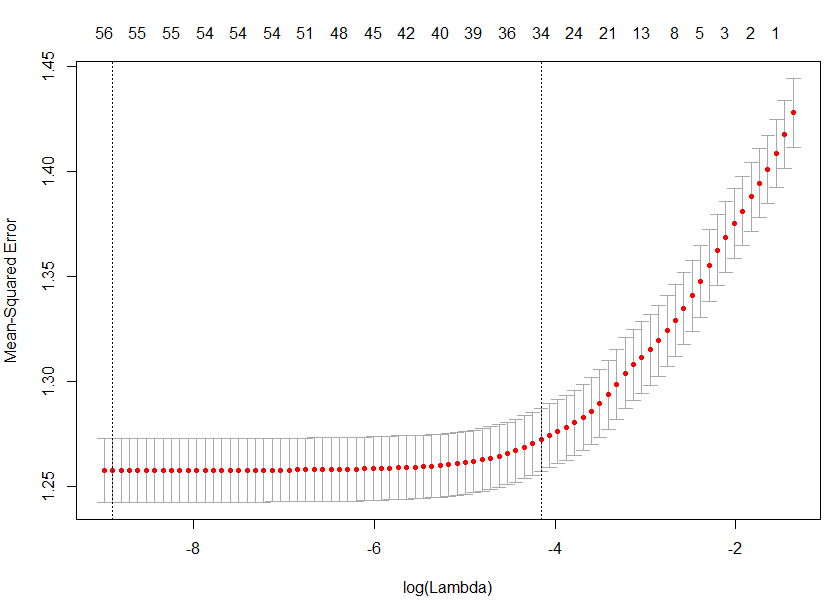
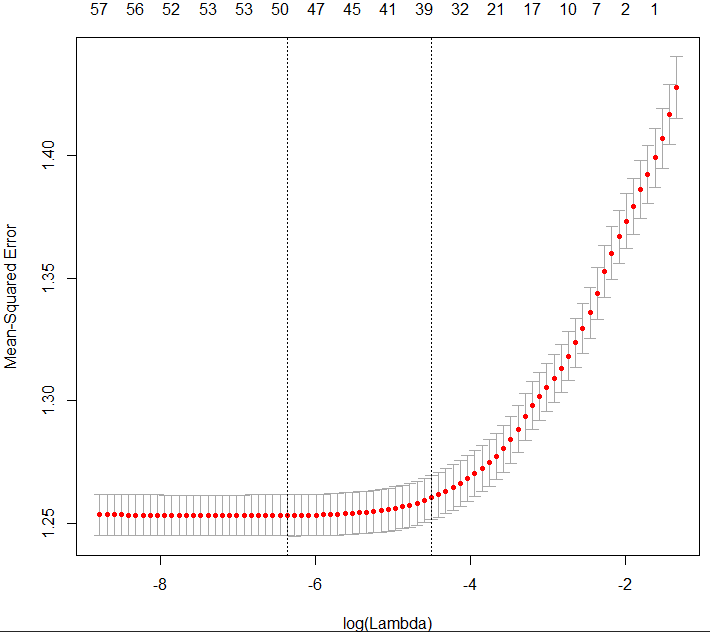
Changes from papeeria

diff --git a/thesis.tex b/thesis.tex
@@ -19,11 +19,60 @@
 \begin{document}
 
 \section{Introdution}
-As we know, people mostly get information and knowledge from news and articles. In this era, people are also used to using internet doing everything. So it’s no doubt that online news and articles are playing a very important role in our daily life. We can get any news we want through internet quickly. And also, it’s much easier to figure out which online news or articles we like through many internet ways, such like shares, likes and comments. \\ 
-As we can imagine, popular news can make the authors become famous, also it can help the social media company attract more people. So they can make more profits. So if an author can know what can make news or articles become popular, or one company can predict whether news or articles will be popular before them are published, they will definitely try their best to get the information.  \\
-So this project aims to find an method to predict how popular an online article can be before it is published by using several statistic characteristics summarized from it. We use the dataset from UCI Machine Learning Repository. In this dataset, it uses the number of shares for an online article to measure how popular it is.   
+As we know, people mostly get information and knowledge from news and articles. In this era, people are also used to using internet doing everything. So it’s no doubt that online news and articles are playing a very important role in our daily life. We can get any news we want through internet quickly. And also, it’s much easier to figure out which online news or articles we like through many internet ways, such like shares, likes and comments. 
 
-The input of algorithm is several features of Mashable articles: Words(e.g. number of words in the title), Links(e.g. number of Mashable article links), Digital Media(e.g. number of images), Time(e.g. day of the week), Keywords(e.g. number of keywords) and Natural Language Processing(e.g. closeness to top 5 LDA topics). We will predict the popularity in two perspectives. Firstly, we can use regression models(e.g. regression, GAM, Lasso) to predict the number of shares. Secondly, we make articles into 3 levels (unpopular, normal, popular) and then use classification algorithm(e.g. SVM, Random Forest, KNN) to find the articles level.  
+As we can imagine, popular news can make the authors become famous, also it can help the social media company attract more people. So they can make more profits. So if an author can know what can make news or articles become popular, or one company can predict whether news or articles will be popular before them are published, they will definitely try their best to get the information. 
+
+So this project aims to find an method to predict how popular an online article can be before it is published by using several statistic characteristics summarized from it. We use the dataset from UCI Machine Learning Repository. In this dataset, it uses the number of shares for an online article to measure how popular it is. It contains 39644 observations with 60 variables, including 2 variables that are not used in orginal work for the dataset, but we will also one of them to build the model. So we will use 59 variables.
+
+The input of algorithm is several features of Mashable articles: Words(e.g. number of words in the title), Links(e.g. number of Mashable article links), Digital Media(e.g. number of images), Time(e.g. day of the week), Keywords(e.g. number of keywords) and Natural Language Processing(e.g. closeness to top 5 LDA topics).
+
+    \begin{table}[h]
+        \centering
+        \caption{List of variables}
+        \begin{tabular}{ l | r }
+            \hline\hline
+            Variable names & Type(\#)\\
+            \hline
+            Days between the article publication and the dataset acquisition & numeric(1) \\
+            Number of words in the title & numeric(1) \\
+            Number of words in the content & numeric(1) \\
+            Rate of unique words in the content & numeric(1) \\
+            Rate of non-stop words in the content & numeric(1) \\
+            Rate of unique non-stop words in the content & numeric(1) \\
+            Number of links & numeric(1) \\
+            Number of links to other articles published by Mashable & numeric(1) \\
+            Number of images & numeric(1) \\
+            Number of videos & numeric(1) \\
+            Average length of the words in the content & numeric(1) \\
+            Number of keywords in the metadata & numeric(1) \\
+            Number of words in the title & numeric(1) \\
+            Data channel (Lifestyle, Entertainment, Business, Social Media, Tech or World) & binary(6) \\
+            Worst keyword shares (min, avg, max) & numeric(3) \\
+            Best keyword shares (min, avg, max) & numeric(3) \\
+            Average keyword shares (min, avg, max) & numeric(3) \\
+            shares of referenced articles in Mashable (min, avg, max) & numeric(3) \\
+            Day (Monday, Tuesday, Wednesday, Thursday, Friday, Saturday or Sunday) & binary(7) \\
+            The article published on the weekend & binary(1) \\
+            Closeness to LDA topic from 0 to 4 & numeric(5) \\
+            Text subjectivity & numeric(1) \\
+            Text sentiment polarity & numeric(1) \\
+            Rate of positive words in the content & numeric(1) \\
+            Rate of negative words in the content & numeric(1) \\
+            Rate of positive words among non-neutral tokens & numeric(1) \\
+            Rate of negative words among non-neutral tokens & numeric(1) \\
+            Polarity of positive words (min, avg, max) & numeric(3) \\
+            Polarity of negative words (min, avg, max) & numeric(3) \\
+            Title subjectivity & numeric(1) \\
+            Title polarity & numeric(1) \\
+            Absolute subjectivity level & numeric(1) \\
+            Absolute polarity level & numeric(1) \\
+            \hline\hline
+        \end{tabular}
+        \label{table:1}
+    \end{table}
+
+We will predict the popularity in two perspectives. Firstly, we can use regression models(e.g. regression, GAM, Lasso) to predict the number of shares. Secondly, we make articles into 3 levels (unpopular, normal, popular) and then use classification algorithm(e.g. SVM, Random Forest, KNN) to find the articles level.  
 
 \section{Method}
 \subsection{Linear models}  
@@ -31,14 +80,14 @@ Linear models has been developed in age before computer came out, but we still s
 The linear model has one of assumptions. The regression function E(Y$\mid$X) is linear or it's reasonable to approximate it into linear model. In this formula, $\beta_j$s are unknown parameters, and variables $X_j$ can be in different sources.  
 Also, there are seveal assumptions made for this model. We always assume that E(Y$\mid$X)=f(X) is a linear function of X and the error follows $\epsilon \sim \mathcal N(0, \sigma^2I)$ and $\epsilon$ uncorrelated with X and X is full rank which implies that X^T $\text{ is nonsingular and positive definite.}$
 
-\subsection{Generalized Additive Models(GAM)}  
-Linear models are good, but as the effects are often not linear in the real world, linear models often fail. We can use some more flexible statistical methods that can show nonlinear effects. We call these methods "generalized additive models". If we have an input vector $X^T=(X_1,X_2,...,X_p)$, and want to predict a output Y. The additive model has the form $$Y=\alpha+\sum_{j=1}^{p} f_j(X_j)+\epsilon$$
-Where the mean of error term $\epsilon$ is 0. As each $f_j$ is an unspecified smooth nonparametric function. The approach is using an algorithm for simultaneously estimating all functions instead of expanding each function then fitted by simple least squares. Given observation $x_i$, $y_i$, the criterion is like: $$\sum_{i=1}^{N} (y_i-\alpha-\sum_{j=1}^{p}f_j(X_{ij}))^2+\sum_{j=1}^{p} \lambda_jf_j(X_{ij})$$
-
 \subsection{Least Absolute Selection and Shrinkage Operator(lasso)}  
 Lasso is another method for estimation in linear models. It solves the problem $$\min_{\beta} \sum_{i=1}^{n} (y_i-\sum_{j=1}^{p} x_{ij}\beta_{ij})^2 \text{, subject to } \sum_{j=1}^{p} \lvert \beta_j \rvert \leq t$$
 Where t $\geq$ 0 is a parameter given by users. It controls the amount of shrinkage that is applied to the estimates. For the full least squares estimates $\hat{\beta}^0_j$, we can get $t_0=\sum_{j=1}^{p} \lvert \hat{\beta}^0_j \rvert$. $\forall t \leq t_0$ some $\beta_j$ will go to 0. We can also write as $$\hat\beta^{lasso}=\argminB_{\beta \in \mathbb{R}^p} \lVert y-X\beta\rVert^2_2+\lambda\lVert \beta \rVert_1$$
 Where $\lambda=0$ gives ordinary least squares, $\lambda\to\infty$ gives $\hat\beta^{lasso}\to0$. 
+
+\subsection{Generalized Additive Models(GAM)}  
+Linear models are good, but as the effects are often not linear in the real world, linear models often fail. We can use some more flexible statistical methods that can show nonlinear effects. We call these methods "generalized additive models". If we have an input vector $X^T=(X_1,X_2,...,X_p)$, and want to predict a output Y. The additive model has the form $$Y=\alpha+\sum_{j=1}^{p} f_j(X_j)+\epsilon$$
+Where the mean of error term $\epsilon$ is 0. As each $f_j$ is an unspecified smooth nonparametric function. The approach is using an algorithm for simultaneously estimating all functions instead of expanding each function then fitted by simple least squares. Given observation $x_i$, $y_i$, the criterion is like: $$\sum_{i=1}^{N} (y_i-\alpha-\sum_{j=1}^{p}f_j(X_{ij}))^2+\sum_{j=1}^{p} \lambda_jf_j(X_{ij})$$
 
 \subsection{Support Vector Machines(SVM)}  
 Besides the regression models, we can also classification algorithm to describe the result. Support Vector Machines are technique for constructing an optimal separating hyperplane between two classes. We can define SVM model as:$$\text{max }L(\alpha)=\sum_{i=1}^{n} \alpha_i - \frac{1}{2}\sum_{i=1}^{n}\sum_{i'=1}^{n}\alpha_i \alpha_i' y_i y_{i'} K(x_i,x_{i'})$$
@@ -77,7 +126,9 @@ For linear model: \\
         \includegraphics[width=0.7\linewidth]{linear_qq.png}
         \caption{Linear Regression Plot: QQ plot}
     \end{figure}    
+    
     From the Scale-location plot, we can see the red line is continually going up, which suggests that the assumptions of equal variance of the residuals may not be true.  \\
+    
     \begin{figure}[h]
         \centering
         \includegraphics[width=0.7\linewidth]{linear_sl.png}
@@ -85,10 +136,138 @@ For linear model: \\
     \end{figure}
     
     For all variables, I calculate the vif for each of the variable, and some of their vif value are larger than 10, which shows the collinearity is significant in these variables. And we maybe can think about remove them. \\ 
-For GAM: 
-    From the method part, we know that $f_j(x_j)$ converges from $E \left[Y-\sum_{k \neq j}f_k(x_k)\mid{x_j} \right]$. We use gam model in R to fit the whole dataset, and according to model we get, we know that the number of local scoring iterations used to compute the estimates is only 9, which shows that this method converges pretty fast.
+    
+For GAM: From the method part, we know that $f_j(x_j)$ converges from $E \left[Y-\sum_{k \neq j}f_k(x_k)\mid{x_j} \right]$. We use gam model in R to fit the whole dataset, and according to model we get, we know that the number of local scoring iterations used to compute the estimates is only 9, which shows that this method converges pretty fast.
 \subsection{Result}
 \subsubsection{Regression}
+To compare each method result, we decide to separate the whole dataset into training and testing part. We use 70\% of the data to train each model, and then use the rest one to test the error. For regression model, we compare the MSE among linear regression, lasso and GAM. \\
+
+For the linear regression model, we use all variables including timedelta which is not included in the orginal parper for this dataset. We gets MSE of 1.268389. \\
+
+The lasso gives the MSE of 1.269729. We use cross-validation method first to decide the lambda, after the cross-validation, we use the lambda that gives the minimum MSE to train the model, then get the test MSE. As we can see from Figure \ref{fig:lasso}, the left vertical dash line is the lambda that gives minimum MSE, and the right one is the largest value of lambda such that error is within one standard error of minimum. The number above Figure \ref{fig:lasso} is the number of features chosen by lasso. \\
+
+    \begin{figure}[h]
+        \centering
+        \includegraphics[width=0.7\linewidth]{lasso_plot.png}
+        \caption{lasso}
+        \label{fig:lasso}
+    \end{figure}
+    
+For GAM, we try to apply smoothing splines to numeric variables. Firstly, we tried the smoothing splines with degree of freedom from 1 to 8. Using cross-validation method, we get the best model is when the degree of freedom is 6 (See from Figure \ref{fig:gam}). After choose the degree of freedom, we get the testing MSE 1.225438. \\ 
+
+    \begin{figure}[h]
+        \centering
+        \includegraphics[width=0.7\linewidth]{gam_plot.png}
+        \caption{GAM with smoothing spline with different df}
+        \label{fig:gam}
+    \end{figure}
+
+    \begin{table}[h]
+        \centering
+        \caption{MSE for Regression}
+        \begin{tabular}{ l | r }
+            \hline\hline
+            Regression model & Testing MSE\\
+            \hline
+            linear regression & 1.268389 \\
+            lasso & 1.269729 \\
+            GAM & 1.225438 \\
+            \hline\hline
+        \end{tabular}
+        \label{table:1}
+    \end{table}
+
+From the regression models, we can find that the MSEs are not so different from each other. We can't tell which is the best by only looking at the testing MSE. As we think that the exact share number is not a big deal when the number of share is extreme large or extreme small, we can split the response into three categorical level, and give a classifcation prediction.
+
+\subsubsection{classification}
+As we know, most of the articles have a very normal number of shares, only a few articles have very large or small number of shares. According to the training dataset, we decide to label the number of shares into three levels (unpopular, normal and popluar) shown in Table \ref{table:Popularity}. \\
+
+    \begin{figure}[h]
+        \centering
+        \includegraphics[width=0.7\linewidth]{logy.png}
+        \caption{Histogram of log(shares) in training dataset}
+    \end{figure}
+
+    \begin{table}[h]
+        \centering
+        \caption{Popularity categories}
+        \begin{tabular}{ l | r }
+            \hline\hline
+            The interval of log(shares) & Popularity\\
+            \hline
+            $\left[$0, 6.6746) & Unpopular \\
+            $\left[$6.6746, 8.3894) & Normal \\
+            $\left[$8.3894, $\infty$) & Popular \\
+            \hline\hline
+        \end{tabular}
+        \label{table:Popularity}
+    \end{table}
+
+    \begin{figure}[h]
+        \centering
+        \includegraphics[width=0.7\linewidth]{poplularity.png}
+        \caption{Popularity categories}
+    \end{figure}
+
+For the one vs one SVM model, we try two different kernel, linear or radial. For the linear kernel, we try C = 0.1, 1, 10, 100, 1000, and use the 10-fold cross-validation method in the training dataset to get the best value for parameter C is . And we also use the radical method and try C = 0.1, 1, 10, 100, 1000 together with $\gamma$ = 0.25, 0.5, 1, 2, 4. Then we still use the 10-fold cross-validation method to get the best C =  and $\gamma$ = . So we can get the testing accuracy for best linear is and for best radical is.
+
+The random forest gives the accuracy 0.4458085 with the m = 9. We can try the number of variables from 1 to 60, and build 4000 trees. This time we use the out-of-bag (OOB) error estimation instead of cross-validation error as R can give the OOB error directly. The OOB means we can leave only one data from the training dataset, and use other data to fit the random forest model, then use the error from predict the last one. We can find that when m = 9 will give the best accuracy in the training dataset. 
+
+    \begin{figure}[h]
+        \centering
+        \includegraphics[width=0.7\linewidth]{randomforest_oob.png}
+        \caption{Out-of-bag error for different m}
+    \end{figure}
+    
+    \begin{table}[h]
+        \centering
+        \caption{Confusion Matrix for random forest (m = 9)}
+        \begin{tabular}{ c | c | c | c | c }
+            \hline\hline
+            \multicolumn{1}{l}{} & \multicolumn{4}{c}{Reference} \\
+            \hline
+            Predition & Unpopular & Normal & Popular & Accuracy\\
+            \hline
+            Unpopular & 57 & 28 & 1 & 0.662791\\
+            \hline
+            Normal & 4799 & 5224 & 1732 & 0.44441\\
+            \hline
+            Popular & 15 & 16 & 21 & 0.403846\\
+            \hline\hline
+        \end{tabular}
+        \label{table:rf}
+    \end{table}
+
+The confusion matrix in Table \ref{table:rf} shows that we can predict Unpopular some how well, and Nomarl and Popular can still be predicted correct for the majority.
+
+For KNN, we try k from 1 to 100, which means we wish to find the best number of points in dataset to represent the point we want to predict. We use the cross-validation method, and find out that best number of points is 55. We get the testing accuracy for KNN is 0.4437064.
+
+    \begin{figure}[h]
+        \centering
+        \includegraphics[width=0.7\linewidth]{knn_cv.png}
+        \caption{cross-validation error for KNN}
+    \end{figure}
+
+    \begin{table}[h]
+        \centering
+        \caption{Confusion Matrix for KNN (k = 55)}
+        \begin{tabular}{ c | c | c | c | c }
+            \hline\hline
+            \multicolumn{1}{l}{} & \multicolumn{4}{c}{Reference} \\
+            \hline
+            Predition & Unpopular & Normal & Popular & Accuracy\\
+            \hline
+            Unpopular & 14 & 5 & 3 & 0.636364\\
+            \hline
+            Normal & 4857 & 5263 & 1751 & 0.443349\\
+            \hline
+            Popular & 0 & 0 & 0 & NaN\\
+            \hline\hline
+        \end{tabular}
+        \label{table:knn}
+    \end{table}
+
+The confusion matrix in Table \ref{table:knn} shows that we can predict Unpopular some how well, and Nomarl can still be predicted correct for the majority. But knn may be bad for predicting Popular ones, as it even doesn't predict one result popluar.
 
 \section{Conclusion}
 
